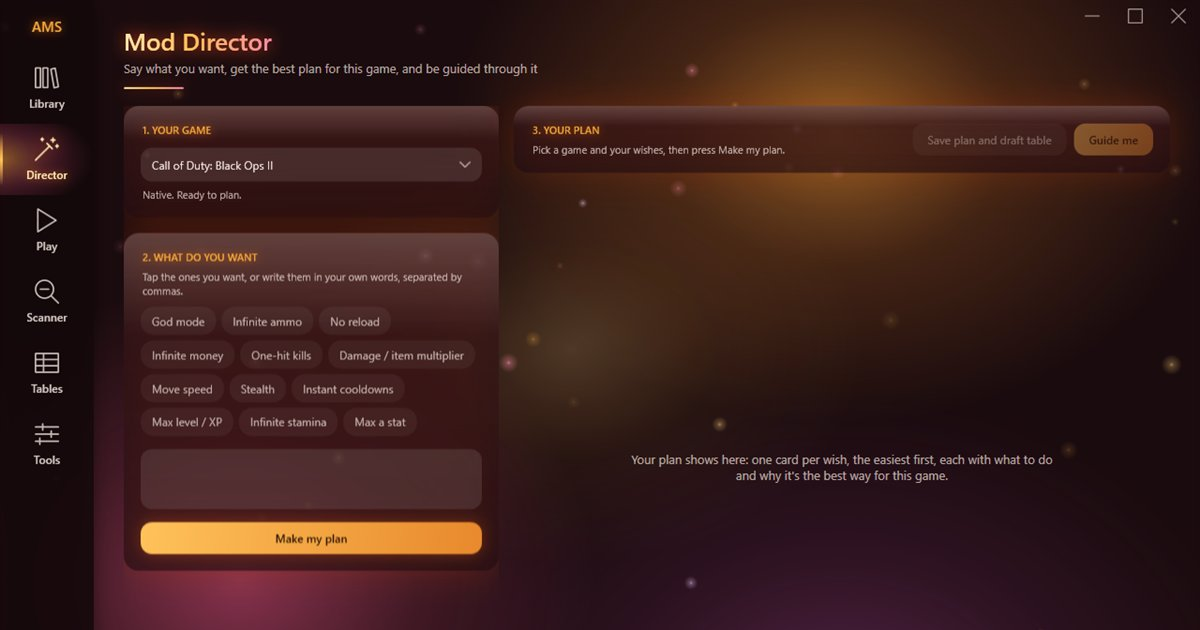
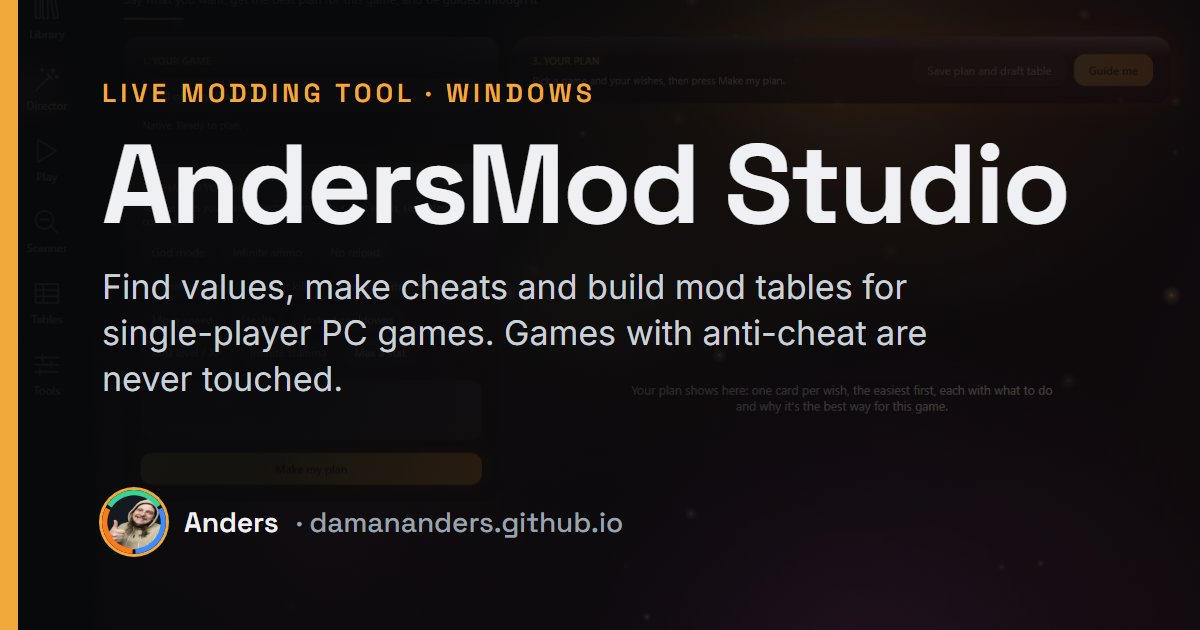
AndersMod Studio page: site menu entry, standard OG card (make-og.js), hub.css cache bump, Title Case labels

diff --git a/andersmod/index.html b/andersmod/index.html
@@ -9,7 +9,7 @@
 <meta property="og:title" content="AndersMod Studio — Live modding for single-player games" />
 <meta property="og:description" content="Find values, make cheats and build mod tables for single-player PC games. Games with anti-cheat are never touched." />
 <meta property="og:url" content="https://damananders.github.io/andersmod/" />
-<meta property="og:image" content="https://damananders.github.io/assets/og/andersmod.jpg?v=1" />
+<meta property="og:image" content="https://damananders.github.io/assets/og/andersmod.jpg?v=2" />
 <meta property="og:image:width" content="1200" />
 <meta property="og:image:height" content="630" />
 <meta name="twitter:card" content="summary_large_image" />
@@ -100,19 +100,19 @@ body.amod{--accent:#f2a93b;--amod:#f2a93b;--rose:#f0588c;
       <div id="dlmeta" class="meta"></div>
       <p id="dlhash" class="hash" hidden></p>
 
-      <h3 style="margin-top:24px">Getting started</h3>
+      <h3 style="margin-top:24px">Getting Started</h3>
       <ol class="steps">
         <li>Download and unzip.</li>
         <li>Run <code>LiveModStudio.exe</code>. Windows may say it&rsquo;s from an unknown publisher: choose <b>More info</b> &rarr; <b>Run anyway</b>.</li>
         <li>Open <b>Library</b>, find your game, and press <b>Approve for live</b>.</li>
         <li>Start the game yourself, then open <b>Director</b> or <b>Scanner</b>.</li>
       </ol>
-      <p style="margin-top:6px"><a href="#quickstart">Read the quick start &darr;</a></p>
+      <p style="margin-top:6px"><a href="#quickstart">Read the Quick Start &darr;</a></p>
 
       <div class="note safe"><b>Single-player and offline only.</b> Games that use anti-cheat (EasyAntiCheat, BattlEye, Vanguard and others) are detected and locked: the studio never opens them. Games with protected code get value cheats only. Please respect each game&rsquo;s terms.</div>
 
       <details class="changes" style="margin-top:18px">
-        <summary>What&rsquo;s new in 0.7.2</summary>
+        <summary>What&rsquo;s New in 0.7.2</summary>
         <ul>
           <li>Mod Director: plans a mod table for any game from plain wishes, with Guide me and Save plan.</li>
           <li>Big endian is a normal option everywhere, and custom value types work in every scan, the table, freeze and cheat maker.</li>
@@ -124,7 +124,7 @@ body.amod{--accent:#f2a93b;--amod:#f2a93b;--rose:#f0588c;
   </div>
 
   <section class="sec" aria-label="Screenshots">
-    <h2>A closer look</h2>
+    <h2>A Closer Look</h2>
     <div class="shots">
       <figure><img src="../assets/andersmod/director.jpg" loading="lazy" alt="The Mod Director's plan for god mode, money and XP" /><figcaption>The Mod Director picks the easiest way to do each cheat for this game.</figcaption></figure>
       <figure><img src="../assets/andersmod/play.jpg" loading="lazy" alt="The Play tab: cheats as cards with switches and hotkeys" /><figcaption>Play: your cheats as cards, by category, with hotkeys.</figcaption></figure>
@@ -132,18 +132,18 @@ body.amod{--accent:#f2a93b;--amod:#f2a93b;--rose:#f0588c;
     </div>
   </section>
 
-  <section class="sec" id="quickstart" aria-label="Quick start">
-    <h2>Quick start</h2>
+  <section class="sec" id="quickstart" aria-label="Quick Start">
+    <h2>Quick Start</h2>
     <div class="cards">
-      <div class="card glass"><h3>1. Pick your game</h3><p>Library lists your Steam and Epic games with their engine. A red lock means anti-cheat: it stays off limits. Press <b>Approve for live</b> on the game you want to mod.</p></div>
-      <div class="card glass"><h3>2. Say what you want</h3><p>In <b>Director</b>, tap the wishes (or type your own) and press <b>Make my plan</b>. <b>Guide me</b> walks you through each one; <b>Save plan</b> writes a draft table.</p></div>
-      <div class="card glass"><h3>3. Or find it yourself</h3><p>In <b>Scanner</b>, type the number you see, change it in the game, scan again. Can&rsquo;t see it? Use <b>I can&rsquo;t see it</b> and say whether it went up or down.</p></div>
-      <div class="card glass"><h3>4. Make it a cheat</h3><p>Right-click a value &rarr; <b>Make cheat</b>. For god mode, press <b>Make god mode</b> and take a hit: the studio finds the code that lowers your health and switches only that off.</p></div>
+      <div class="card glass"><h3>1. Pick Your Game</h3><p>Library lists your Steam and Epic games with their engine. A red lock means anti-cheat: it stays off limits. Press <b>Approve for live</b> on the game you want to mod.</p></div>
+      <div class="card glass"><h3>2. Say What You Want</h3><p>In <b>Director</b>, tap the wishes (or type your own) and press <b>Make my plan</b>. <b>Guide me</b> walks you through each one; <b>Save plan</b> writes a draft table.</p></div>
+      <div class="card glass"><h3>3. Or Find It Yourself</h3><p>In <b>Scanner</b>, type the number you see, change it in the game, scan again. Can&rsquo;t see it? Use <b>I can&rsquo;t see it</b> and say whether it went up or down.</p></div>
+      <div class="card glass"><h3>4. Make It a Cheat</h3><p>Right-click a value &rarr; <b>Make cheat</b>. For god mode, press <b>Make god mode</b> and take a hit: the studio finds the code that lowers your health and switches only that off.</p></div>
     </div>
   </section>
 
-  <section class="sec" aria-label="System requirements">
-    <h2>System requirements</h2>
+  <section class="sec" aria-label="System Requirements">
+    <h2>System Requirements</h2>
     <div class="cards">
       <div class="card glass"><h3>Windows</h3><p>Windows 10 or 11, 64-bit. Nothing else to install: .NET is built in.</p></div>
       <div class="card glass"><h3>Games</h3><p>64-bit single-player PC games. Value cheats work on 32-bit games too; the debugger and scripts are 64-bit only for now.</p></div>

diff --git a/tools/make-og.js b/tools/make-og.js
@@ -18,6 +18,7 @@ const CARDS = [
   { file: "anyps", kicker: "PlayStation launcher · Windows", title: "AnyPS", sub: "One controller-first launcher for six generations of PlayStation emulators, now with PS Vita. Bring your own games.", accent: "#3d8bff" },
   { file: "discord", kicker: "Friends of DaManAnders", title: "Come hang out", sub: "Go-live alerts, new-review feeds and a place to talk about the projects. The Discord for everything Anders.", accent: "#5865f2" },
   { file: "arcade", kicker: "Arcade", title: "Play something", sub: "Little browser games tucked into the site — row the boat home, stamp review scores, and more to come.", accent: "#cd4257" },
+  { file: "andersmod", kicker: "Live modding tool · Windows", title: "AndersMod Studio", sub: "Find values, make cheats and build mod tables for single-player PC games. Games with anti-cheat are never touched.", accent: "#f2a93b", bg: "assets/andersmod/studio.jpg" },
   { file: "trophies", kicker: "Trophy cabinet", title: "Collect them all", sub: "Hidden trophies across the whole site — secret words, cheat codes and milestones. See how many you can find.", accent: "#f0b065" }
 ];
 const b64 = f => fs.readFileSync(path.join(root, f)).toString("base64");

diff --git a/assets/chrome.js b/assets/chrome.js
@@ -554,6 +554,7 @@
    * ==================================================================================================== */
   var PAGES = [
     ["hub", "/", "Home", "Back to the hub", "about"], ["anyps", "/anyps/", "AnyPS", "The PlayStation launcher", "projects"], ["anderscraft", "/anderscraft/", "AndersCraft", "Private WoW server", "projects"],
+    ["andersmod", "/andersmod/", "AndersMod Studio", "Live modding, single-player", "projects"],
     ["games", "/games/", "Wiki-Chip Dex", "Rate & review games", "games"], ["forum", "/games/forum/", "Forums", "Talk games & projects", "games"],
     ["links", "/links/", "Links I Like", "Sites I actually use", "about"], ["stream", "/stream/", "Stream", "Watch me live", "community"],
     ["discord", "/discord/", "Discord", "Join the community", "community"], ["arcade", "/arcade/", "Arcade", "Little browser games", "games"],

diff --git a/index.html b/index.html
@@ -37,7 +37,7 @@
 <link rel="stylesheet" href="/assets/interact.css" />
 <link rel="stylesheet" href="/assets/audio.css" />
 <link rel="stylesheet" href="/assets/social-live.css" />
-<link rel="stylesheet" href="/assets/pages/hub.css?v=14" />
+<link rel="stylesheet" href="/assets/pages/hub.css?v=15" />
 <link rel="stylesheet" href="/assets/pages/hub-fx.css" />
 <!-- /site:head -->
 <!-- Hub only: ?owner / ?owner=0 in the address takes effect before first paint (site.js stores it a moment later), so the owner layout never jumps. -->
